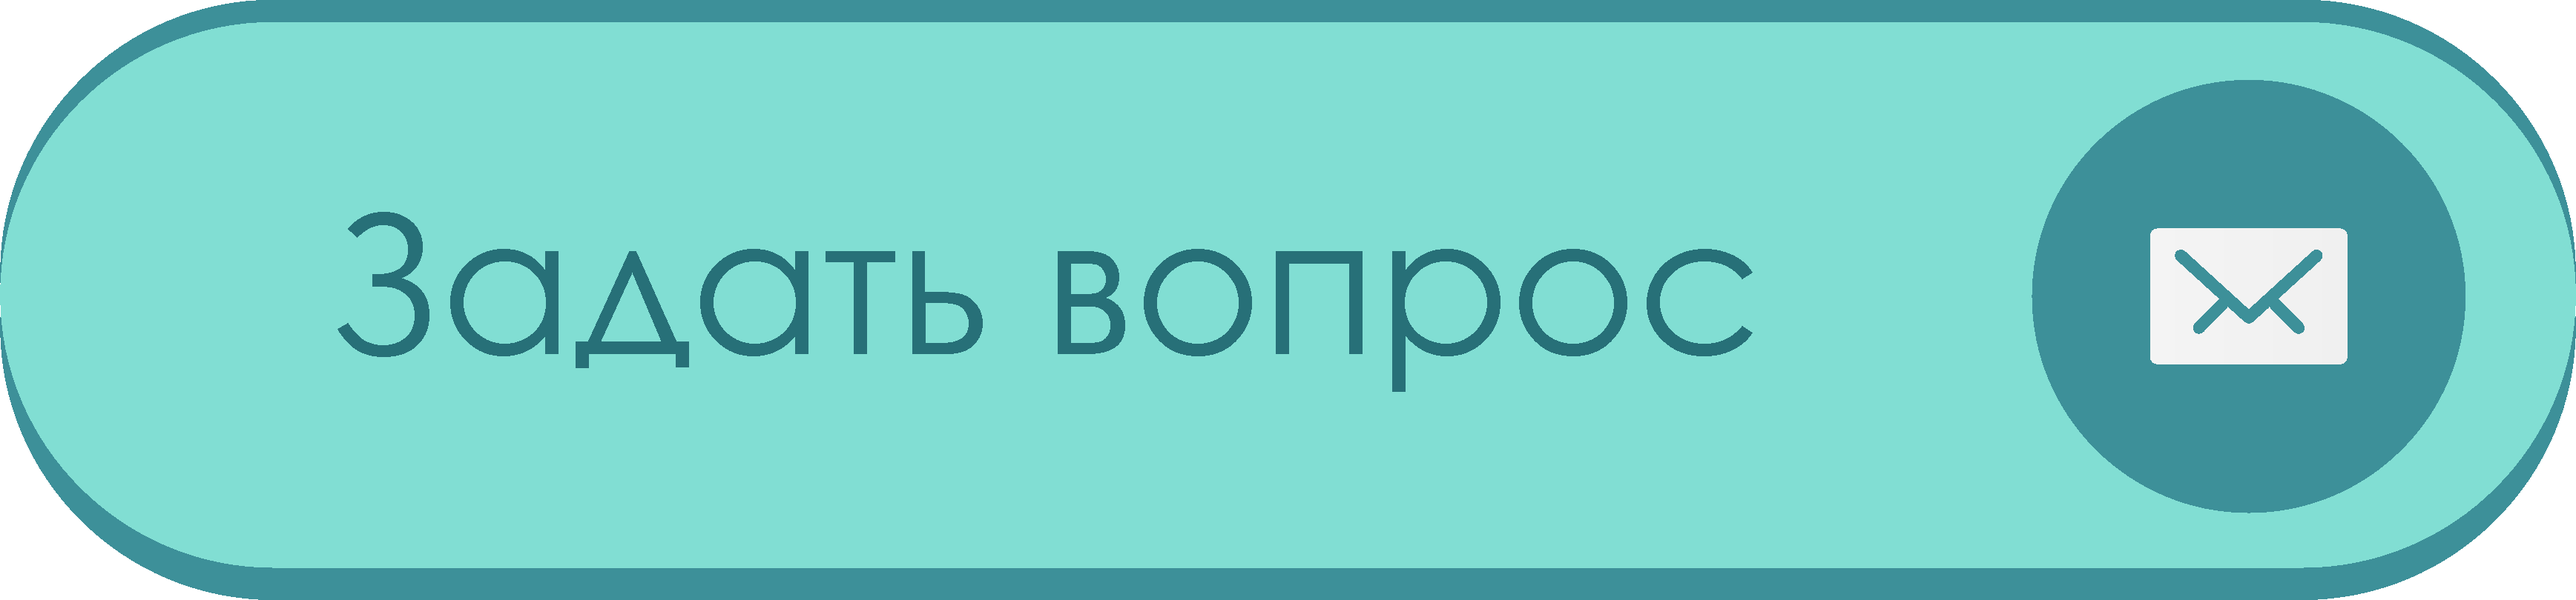
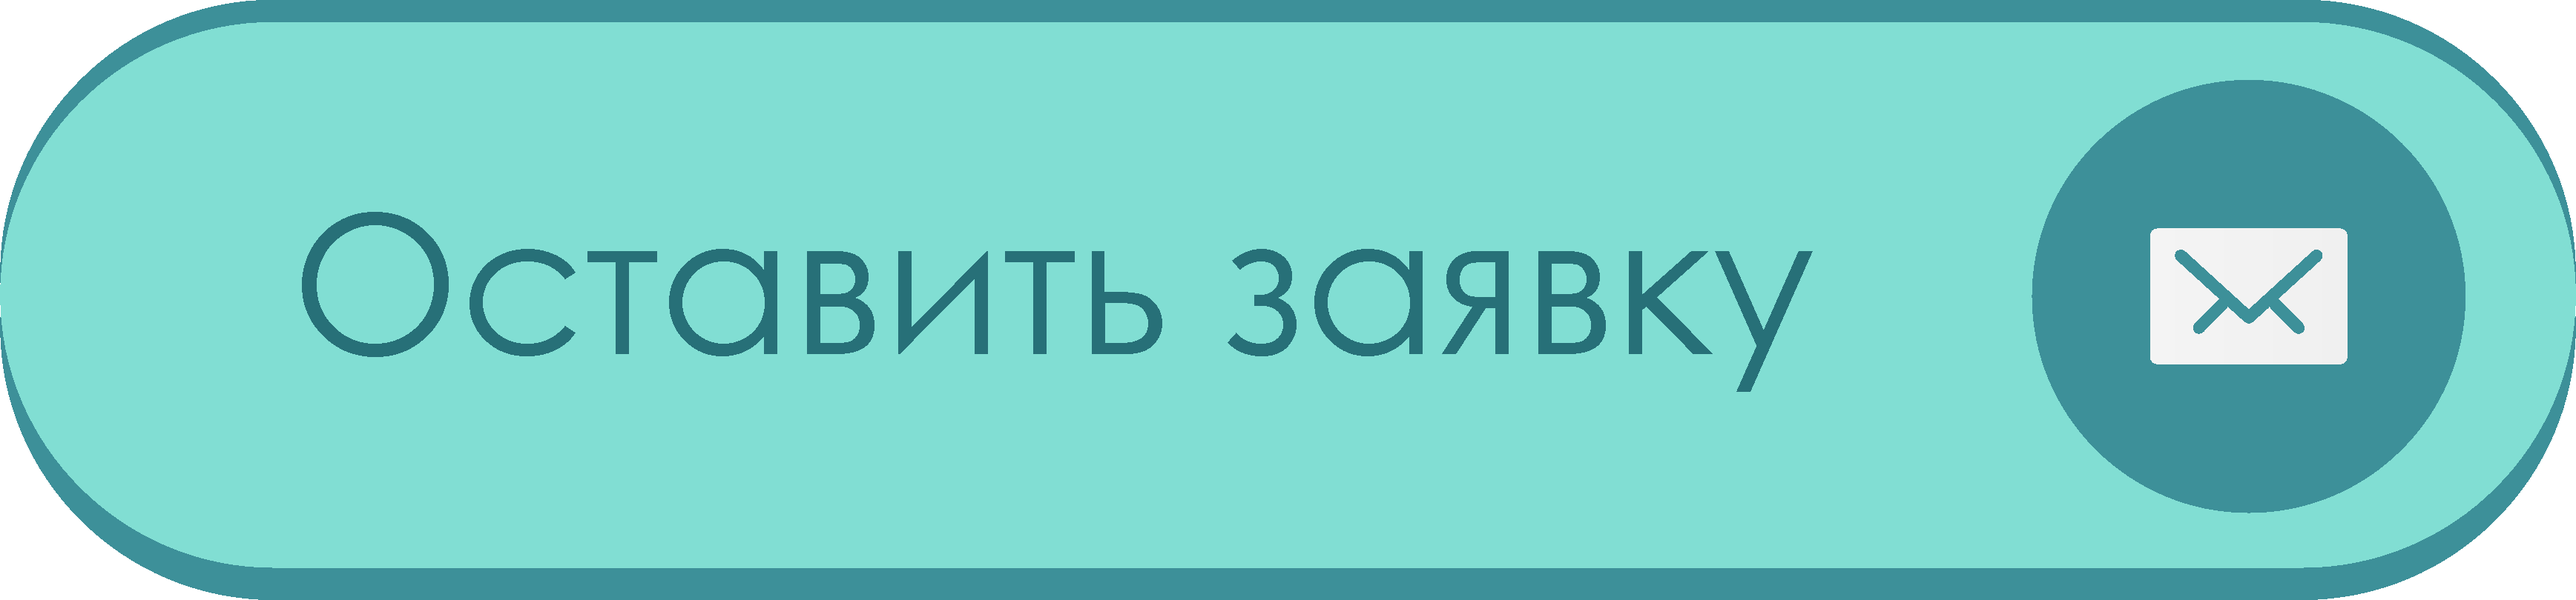
New ask button

Changed region(s): [[0.0933, 0.3395, 0.7152, 0.6481]]

diff --git a/index.html b/index.html
@@ -46,9 +46,8 @@
 
 <body>
     <div class="ask-btn" onclick="showAsk();"></div>
-    
     <div id="ask_popup" class="ask-hidden">
-        <h2>Задать вопрос</h2>
+        <h2>Оставить заявку</h2>
         
         <form action="contactForm.php" method="post" id="contactPopup" class="form">
             <div class="select-wrapper">
@@ -511,9 +510,5 @@
         alert('Извините, данные не были переданы');
       }
     }, false);
-</script>    
-    
-<script type="text/javascript">
-    $('.modal').modal('show');
 </script>
 </html>
